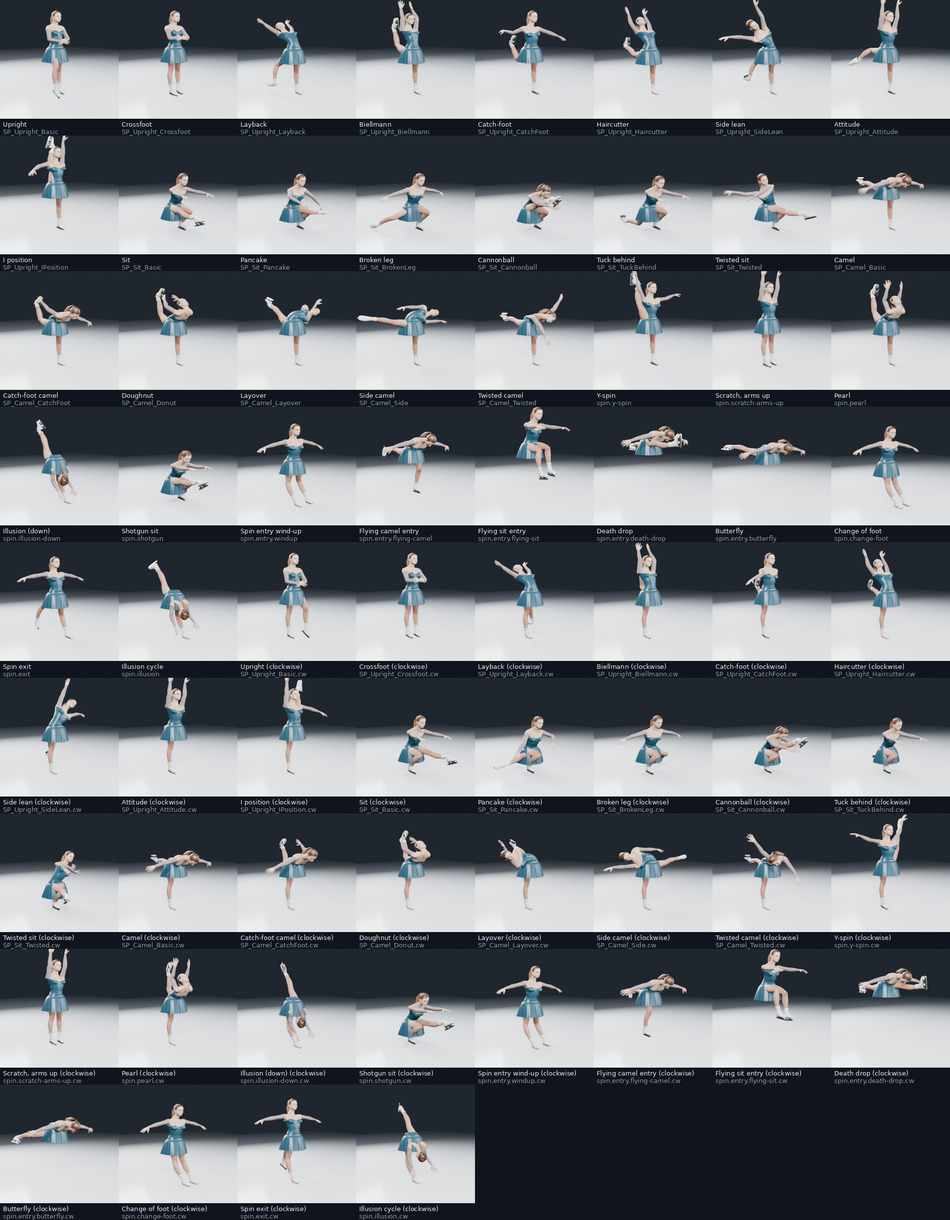
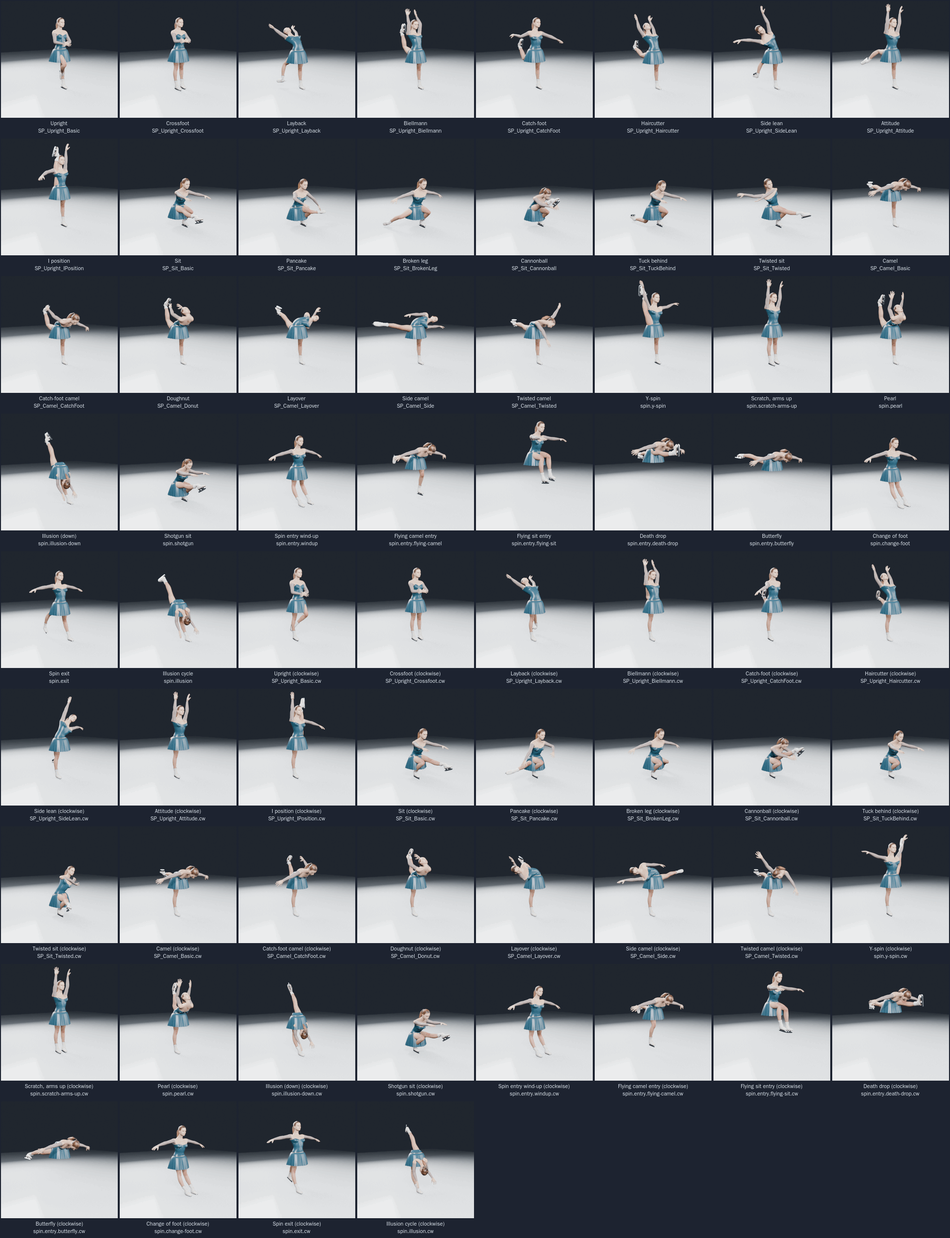
Motion library: the kiss-and-cry, bows, podium, warm-up and footwork; the upright spin fixed
The owner, 2026-11-14: "start building more character animation models,
build resources" (clips first, then bodies).

Three new categories, 68 clips (418 in all), full-body and drawn by eye:
- ceremony (29): the kiss-and-cry on the bench (waiting, listening to the
  coach, waves, a kiss, joy, relief, disappointment, a heart, wiping the
  eyes, pointing), the reverence and a deep bow, waving to the stands,
  the podium (stepping up, waving, the medal, flowers), skating on.
- idle (20): breathing, hands on hips, looking round, shaking out the legs,
  arm circles, quad/side/calf stretches, a forward fold, an ankle roll,
  leaning on the boards, marking a jump, fixing the hair, a fist.
- step (19): toe steps, chassé, cross and swing rolls, kick, stamp and knee
  accents, a hop, toe taps, a slide, arms framing the head.
One-sided clips have mirrors. Nothing plays them yet: they are resources
for the kiss-and-cry, podium and warm-up scenes and step sequences.

SP_Upright_Basic: the free blade now rests at the skating knee; as first
written it hung a hand's width off the ice and the upright spin read as
two-footed in the clients.

Contact sheets rendered on the athlete in Blender (render_motion.py) for
the new categories and the spin sheet: docs/presentation/motion.
Ice Lab 1035/1035, bridge 59/59, typecheck clean.

diff --git a/tools/ice-lab/game/motion/ceremony.ts b/tools/ice-lab/game/motion/ceremony.ts
@@ -1,0 +1,217 @@
+// game/motion/ceremony.ts — everything around the program: the kiss-and-cry, the bows, the podium,
+// and the warm-up and idle a skater does at the boards.
+//
+// The owner, 2026-11-14: "start building more character animation models, build resources". The
+// library had falls, spins, moves in the field and dance arms, and nothing for the minutes either
+// side of a program. These are full-body clips (pelvis, trunk, legs and arms), off the clock of
+// any element: no sim state drives them, so a client can play them wherever the skater is not
+// skating (the kiss-and-cry bench, the podium, the warm-up at the boards).
+//
+// Seated clips put the pelvis at a bench's height and the boots on the floor. Written right-handed
+// where a side matters (the right hand waves); each one-sided clip has its mirror. AUTHORED
+// shapes and timings, judged by eye on the contact sheets (docs/presentation/motion).
+
+import { clip, dir, mirrorClip, DOWN, UP } from "./types.ts";
+import type { Clip, Key, Pose, Segment, Vec3 } from "./types.ts";
+
+type Segs = Partial<Record<Segment, Vec3>>;
+const H = 0.89; // standing pelvis
+const SEAT = 0.47; // a bench
+const STAND: Segs = { thighL: DOWN, shinL: DOWN, footL: dir(-5, -20), thighR: DOWN, shinR: DOWN, footR: dir(5, -20) };
+const SEATED: Segs = { thighL: dir(-8, -8), shinL: dir(-5, -82), footL: dir(-5, -20), thighR: dir(8, -8), shinR: dir(5, -82), footR: dir(5, -20) };
+const armsDown: Segs = { upperArmL: dir(-100, -82), forearmL: dir(-30, -80), upperArmR: dir(100, -82), forearmR: dir(30, -80) };
+const handsOnKnees: Segs = { upperArmL: dir(-10, -60), forearmL: dir(-5, -40), upperArmR: dir(10, -60), forearmR: dir(5, -40) };
+const handsInLap: Segs = { upperArmL: dir(-15, -75), forearmL: dir(30, -20), upperArmR: dir(15, -75), forearmR: dir(-30, -20) };
+const handsOnHips: Segs = { upperArmL: dir(-120, -45), forearmL: dir(40, -25), upperArmR: dir(120, -45), forearmR: dir(-40, -25) };
+const handsToFace: Segs = { upperArmL: dir(-20, -30), forearmL: dir(10, 75), upperArmR: dir(20, -30), forearmR: dir(-10, 75) };
+
+const p = (pelvis: number, seg: Segs, extra: Partial<Pose> = {}): Pose => ({ pelvis, ...extra, seg: { trunk: UP, head: UP, ...seg } });
+const sat = (seg: Segs, extra: Partial<Pose> = {}): Pose => p(SEAT, { trunk: dir(180, 84), ...SEATED, ...seg }, extra);
+const stood = (seg: Segs, extra: Partial<Pose> = {}): Pose => p(H, { ...STAND, ...seg }, extra);
+const make = (category: "ceremony" | "idle") => (id: string, name: string, keys: Key[], tags: string[], note: string, o: { loop?: boolean; duration?: number } = {}): Clip =>
+  clip(id, name, category, keys, { ...o, tags, note });
+const ceremony = make("ceremony");
+const idle = make("idle");
+
+// ── the kiss-and-cry: on the bench, waiting for the marks ─────────────────────
+
+const kissAndCry: Clip[] = [
+  ceremony("kc.wait", "Waiting for the marks", [
+    { t: 0, pose: sat({ head: dir(0, 88), ...handsOnKnees }) },
+    { t: 1.6, pose: sat({ trunk: dir(180, 86), head: dir(0, 84), ...handsOnKnees }), ease: "inOut" },
+  ], ["kiss-and-cry", "seated", "breath"], "On the bench, hands on the knees, breathing out the program while the marks come.", { loop: true, duration: 3.2 }),
+  ceremony("kc.listen", "Listening to the coach", [
+    { t: 0, pose: sat({ trunk: dir(-60, 80), head: dir(-50, 80), ...handsInLap }) },
+    { t: 0.6, pose: sat({ trunk: dir(-60, 80), head: dir(-50, 70), ...handsInLap }), ease: "inOut" },
+    { t: 1.2, pose: sat({ trunk: dir(-60, 80), head: dir(-50, 80), ...handsInLap }), ease: "inOut" },
+  ], ["kiss-and-cry", "seated", "coach"], "Turned toward the coach on her left, nodding along.", { loop: true, duration: 2.4 }),
+  ceremony("kc.wave", "Wave to the camera", [
+    { t: 0, pose: sat({ ...handsInLap, upperArmR: dir(60, 40), forearmR: dir(30, 85) }) },
+    { t: 0.3, pose: sat({ ...handsInLap, upperArmR: dir(60, 40), forearmR: dir(75, 65) }), ease: "inOut" },
+    { t: 0.6, pose: sat({ ...handsInLap, upperArmR: dir(60, 40), forearmR: dir(30, 85) }), ease: "inOut" },
+  ], ["kiss-and-cry", "seated", "wave"], "The right hand up and waving at the camera in front of the bench.", { loop: true, duration: 1.2 }),
+  ceremony("kc.blow-kiss", "Blow a kiss", [
+    { t: 0, pose: sat({ ...handsInLap }) },
+    { t: 0.5, pose: sat({ ...handsInLap, upperArmR: dir(20, -20), forearmR: dir(-40, 70) }), ease: "out" },
+    { t: 0.9, pose: sat({ ...handsInLap, upperArmR: dir(20, -20), forearmR: dir(-40, 70) }) },
+    { t: 1.4, pose: sat({ head: dir(0, 85), ...handsInLap, upperArmR: dir(30, 20), forearmR: dir(20, 30) }), ease: "out" },
+  ], ["kiss-and-cry", "seated"], "Fingers to the lips, then the kiss sent out to the crowd.", { duration: 1.8 }),
+  ceremony("kc.joy", "The marks: joy", [
+    { t: 0, pose: sat({ ...handsOnKnees }) },
+    { t: 0.35, pose: sat({ trunk: dir(180, 80), head: dir(180, 80), upperArmL: dir(-30, 70), forearmL: dir(-10, 85), upperArmR: dir(30, 70), forearmR: dir(10, 85) }), ease: "out" },
+    { t: 1.2, pose: sat({ trunk: dir(0, 85), head: dir(0, 80), ...handsToFace }), ease: "inOut" },
+    { t: 2.0, pose: sat({ trunk: dir(0, 85), head: UP, upperArmL: dir(-30, 70), forearmL: dir(-10, 85), upperArmR: dir(30, 70), forearmR: dir(10, 85) }), ease: "inOut" },
+  ], ["kiss-and-cry", "seated", "reaction", "good"], "Both arms flung up, hands to the face, arms up again: a personal best.", { duration: 2.4 }),
+  ceremony("kc.relief", "The marks: relief", [
+    { t: 0, pose: sat({ ...handsOnKnees }) },
+    { t: 0.5, pose: sat({ trunk: dir(0, 80), head: dir(0, 65), ...handsToFace }), ease: "out" },
+    { t: 1.5, pose: sat({ trunk: dir(0, 80), head: dir(0, 65), ...handsToFace }) },
+    { t: 2.4, pose: sat({ trunk: dir(180, 75), head: dir(180, 85), ...handsInLap }), ease: "inOut" },
+  ], ["kiss-and-cry", "seated", "reaction", "good"], "Hands over the face, then a long breath out, leaning back.", { duration: 2.8 }),
+  ceremony("kc.disappointed", "The marks: disappointed", [
+    { t: 0, pose: sat({ ...handsOnKnees }) },
+    { t: 0.8, pose: sat({ trunk: dir(0, 70), head: dir(0, 40), upperArmL: dir(-10, -70), forearmL: dir(0, -50), upperArmR: dir(10, -70), forearmR: dir(0, -50) }), ease: "inOut" },
+    { t: 2.0, pose: sat({ trunk: dir(0, 72), head: dir(-20, 55), upperArmL: dir(-10, -70), forearmL: dir(0, -50), upperArmR: dir(10, -70), forearmR: dir(0, -50) }), ease: "inOut" },
+  ], ["kiss-and-cry", "seated", "reaction", "bad"], "Shoulders drop, head down, a glance away: not the marks she wanted.", { duration: 2.4 }),
+  ceremony("kc.heart", "Hands make a heart", [
+    { t: 0, pose: sat({ ...handsInLap }) },
+    { t: 0.5, pose: sat({ upperArmL: dir(-30, -35), forearmL: dir(30, 30), upperArmR: dir(30, -35), forearmR: dir(-30, 30) }), ease: "out" },
+  ], ["kiss-and-cry", "seated"], "Both hands shaping a heart at the chest, held to the camera.", { duration: 1.5 }),
+  ceremony("kc.wipe-eyes", "Wipe the eyes", [
+    { t: 0, pose: sat({ ...handsInLap }) },
+    { t: 0.5, pose: sat({ head: dir(0, 80), ...handsInLap, upperArmR: dir(10, -35), forearmR: dir(-25, 75) }), ease: "out" },
+    { t: 1.2, pose: sat({ head: dir(0, 80), ...handsInLap, upperArmR: dir(15, -30), forearmR: dir(-35, 78) }), ease: "inOut" },
+    { t: 1.8, pose: sat({ ...handsInLap }), ease: "inOut" },
+  ], ["kiss-and-cry", "seated", "tears"], "The back of the hand to the eyes: it meant a lot.", { duration: 2.0 }),
+  ceremony("kc.point", "Point at the camera", [
+    { t: 0, pose: sat({ ...handsInLap }) },
+    { t: 0.4, pose: sat({ head: dir(0, 88), ...handsInLap, upperArmR: dir(15, 10), forearmR: dir(5, 15) }), ease: "out" },
+  ], ["kiss-and-cry", "seated"], "A grin and a finger straight at the camera: that one was for home.", { duration: 1.4 }),
+];
+
+// ── bows, the podium, skating on ──────────────────────────────────────────────
+
+const freeBehind: Segs = { thighR: dir(160, -80), shinR: dir(170, -75), footR: dir(180, -10) };
+const ceremonies: Clip[] = [
+  ceremony("bow.reverence", "Reverence", [
+    { t: 0, pose: stood({ ...armsDown }) },
+    { t: 0.9, pose: p(0.82, { trunk: dir(0, 80), head: dir(0, 70), thighL: dir(0, -75), shinL: dir(180, -78), footL: dir(-5, -20), ...freeBehind, upperArmL: dir(-110, -40), forearmL: dir(-130, -45), upperArmR: dir(80, 10), forearmR: dir(90, 0) }), ease: "inOut" },
+    { t: 1.8, pose: p(0.8, { trunk: dir(0, 72), head: dir(0, 60), thighL: dir(0, -70), shinL: dir(180, -76), footL: dir(-5, -20), ...freeBehind, upperArmL: dir(-110, -50), forearmL: dir(-130, -55), upperArmR: dir(100, -40), forearmR: dir(120, -45) }), ease: "inOut" },
+    { t: 3.0, pose: stood({ head: dir(0, 88), upperArmL: dir(-110, -50), forearmL: dir(-120, -55), upperArmR: dir(110, -50), forearmR: dir(120, -55) }), ease: "inOut" },
+  ], ["bow", "curtsey", "ballet"], "The curtsey to the judges: the right foot behind, both knees soft, the trunk and the right arm sweeping down.", { duration: 3.0 }),
+  ceremony("bow.deep", "Deep bow", [
+    { t: 0, pose: stood({ ...armsDown }) },
+    { t: 1.0, pose: stood({ trunk: dir(0, 45), head: dir(0, 30), upperArmL: dir(-20, -80), forearmL: dir(0, -85), upperArmR: dir(20, -80), forearmR: dir(0, -85) }), ease: "inOut" },
+    { t: 1.6, pose: stood({ trunk: dir(0, 45), head: dir(0, 30), upperArmL: dir(-20, -80), forearmL: dir(0, -85), upperArmR: dir(20, -80), forearmR: dir(0, -85) }) },
+    { t: 2.6, pose: stood({ ...armsDown }), ease: "inOut" },
+  ], ["bow"], "From the waist, arms falling straight, held a beat: for a home crowd.", { duration: 2.6 }),
+  ceremony("bow.wave-crowd", "Wave to the stands", [
+    { t: 0, pose: stood({ upperArmL: dir(-100, -80), forearmL: dir(-80, -75), upperArmR: dir(80, 55), forearmR: dir(70, 80) }, { twist: -25 }) },
+    { t: 1.0, pose: stood({ upperArmL: dir(-100, -80), forearmL: dir(-80, -75), upperArmR: dir(110, 55), forearmR: dir(120, 80) }, { twist: 25 }), ease: "inOut" },
+    { t: 2.0, pose: stood({ upperArmL: dir(-100, -80), forearmL: dir(-80, -75), upperArmR: dir(80, 55), forearmR: dir(70, 80) }, { twist: -25 }), ease: "inOut" },
+  ], ["bow", "wave", "crowd"], "The right arm high, the shoulders turning from one end of the stands to the other.", { loop: true, duration: 2.0 }),
+  ceremony("podium.step-up", "Step up to the podium", [
+    { t: 0, pose: stood({ ...armsDown }) },
+    { t: 0.5, pose: p(0.86, { thighL: dir(0, -20), shinL: dir(0, -85), footL: dir(0, -15), thighR: DOWN, shinR: DOWN, footR: dir(5, -20), upperArmL: dir(-110, -60), forearmL: dir(-100, -55), upperArmR: dir(110, -60), forearmR: dir(100, -55) }), ease: "out" },
+    { t: 1.2, pose: stood({ ...armsDown }), ease: "inOut" },
+  ], ["podium"], "The left knee lifts onto the block, the weight goes up and over it, she stands tall.", { duration: 1.2 }),
+  ceremony("podium.wave", "Wave from the podium", [
+    { t: 0, pose: stood({ upperArmL: dir(-100, -80), forearmL: dir(-60, -78), upperArmR: dir(40, 75), forearmR: dir(20, 88) }) },
+    { t: 0.4, pose: stood({ upperArmL: dir(-100, -80), forearmL: dir(-60, -78), upperArmR: dir(40, 75), forearmR: dir(70, 75) }), ease: "inOut" },
+    { t: 0.8, pose: stood({ upperArmL: dir(-100, -80), forearmL: dir(-60, -78), upperArmR: dir(40, 75), forearmR: dir(20, 88) }), ease: "inOut" },
+  ], ["podium", "wave"], "Tall on the block, the right hand high and waving.", { loop: true, duration: 1.6 }),
+  ceremony("podium.medal", "Looking at the medal", [
+    { t: 0, pose: stood({ head: dir(0, 50), upperArmL: dir(-20, -60), forearmL: dir(30, 0), upperArmR: dir(20, -60), forearmR: dir(-30, 0) }) },
+    { t: 1.2, pose: stood({ head: dir(0, 50), upperArmL: dir(-20, -60), forearmL: dir(30, 0), upperArmR: dir(20, -60), forearmR: dir(-30, 0) }) },
+    { t: 2.0, pose: stood({ head: dir(0, 88), upperArmL: dir(-20, -60), forearmL: dir(30, 10), upperArmR: dir(20, -60), forearmR: dir(-30, 10) }), ease: "inOut" },
+  ], ["podium", "medal"], "The medal held in both hands at the chest, looked at, then lifted for the cameras.", { duration: 2.4 }),
+  ceremony("podium.flowers", "Flowers and a wave", [
+    { t: 0, pose: stood({ upperArmL: dir(-30, -55), forearmL: dir(40, 10), upperArmR: dir(60, 50), forearmR: dir(30, 85) }) },
+    { t: 0.4, pose: stood({ upperArmL: dir(-30, -55), forearmL: dir(40, 10), upperArmR: dir(60, 50), forearmR: dir(75, 70) }), ease: "inOut" },
+    { t: 0.8, pose: stood({ upperArmL: dir(-30, -55), forearmL: dir(40, 10), upperArmR: dir(60, 50), forearmR: dir(30, 85) }), ease: "inOut" },
+  ], ["podium", "wave", "flowers"], "The bouquet cradled in the left arm, the right hand waving.", { loop: true, duration: 1.6 }),
+  ceremony("ceremony.skate-on", "Skating on, arm raised", [
+    { t: 0, pose: p(0.87, { trunk: dir(0, 86), thighL: DOWN, shinL: DOWN, footL: dir(0, -20), thighR: dir(180, -55), shinR: dir(180, -62), footR: dir(180, -35), upperArmL: dir(-100, -40), forearmL: dir(-100, -40), upperArmR: dir(30, 70), forearmR: dir(20, 85) }) },
+  ], ["ceremony", "glide", "wave"], "A victory lap's glide: the free leg extended behind, the right arm raised to the crowd.", { loop: true, duration: 1 }),
+];
+
+// ── warm-up and idle, at the boards or on the spot ────────────────────────────
+
+const visualizeIn: Segs = { upperArmL: dir(-20, -40), forearmL: dir(60, -10), upperArmR: dir(20, -40), forearmR: dir(-60, -10) };
+const idles: Clip[] = [
+  idle("idle.breathe", "Standing, breathing", [
+    { t: 0, pose: stood({ ...armsDown }) },
+    { t: 2.0, pose: stood({ trunk: dir(180, 88), head: dir(0, 89), upperArmL: dir(-100, -80), forearmL: dir(-35, -78), upperArmR: dir(100, -80), forearmR: dir(35, -78) }), ease: "inOut" },
+  ], ["idle", "breath"], "Still, tall, a slow breath in and out: the default between everything.", { loop: true, duration: 4.0 }),
+  idle("idle.hands-hips", "Hands on hips", [
+    { t: 0, pose: stood({ ...handsOnHips }) },
+    { t: 1.5, pose: stood({ head: dir(-25, 86), ...handsOnHips }), ease: "inOut" },
+    { t: 3.0, pose: stood({ head: dir(25, 86), ...handsOnHips }), ease: "inOut" },
+  ], ["idle", "breath"], "Hands on the hips, getting her breath back, looking round the rink.", { loop: true, duration: 4.5 }),
+  idle("idle.look-around", "Looking round the rink", [
+    { t: 0, pose: stood({ ...armsDown, head: dir(-60, 88) }) },
+    { t: 1.5, pose: stood({ ...armsDown, head: dir(0, 85) }), ease: "inOut" },
+    { t: 3.0, pose: stood({ ...armsDown, head: dir(60, 88) }), ease: "inOut" },
+    { t: 4.5, pose: stood({ ...armsDown, head: dir(0, 85) }), ease: "inOut" },
+  ], ["idle"], "The head turns slowly across the stands and back.", { loop: true, duration: 6.0 }),
+  idle("idle.shake-legs", "Shaking out the legs", [
+    { t: 0, pose: p(H, { ...armsDown, thighL: DOWN, shinL: DOWN, footL: dir(-5, -20), thighR: dir(5, -70), shinR: dir(10, -85), footR: dir(5, -50) }) },
+    { t: 0.3, pose: p(H, { ...armsDown, thighL: DOWN, shinL: DOWN, footL: dir(-5, -20), thighR: dir(10, -75), shinR: dir(-10, -80), footR: dir(-5, -40) }), ease: "inOut" },
+    { t: 0.6, pose: p(H, { ...armsDown, thighL: dir(-5, -70), shinL: dir(-10, -85), footL: dir(-5, -50), thighR: DOWN, shinR: DOWN, footR: dir(5, -20) }), ease: "inOut" },
+    { t: 0.9, pose: p(H, { ...armsDown, thighL: dir(-10, -75), shinL: dir(10, -80), footL: dir(5, -40), thighR: DOWN, shinR: DOWN, footR: dir(5, -20) }), ease: "inOut" },
+  ], ["idle", "warm-up"], "One foot then the other lifted and shaken loose.", { loop: true, duration: 1.2 }),
+  idle("idle.arm-circles", "Arm circles", [
+    { t: 0, pose: stood({ upperArmL: dir(-90, -60), forearmL: dir(-90, -60), upperArmR: dir(90, -60), forearmR: dir(90, -60) }) },
+    { t: 0.4, pose: stood({ upperArmL: dir(-30, 20), forearmL: dir(-30, 20), upperArmR: dir(30, 20), forearmR: dir(30, 20) }) },
+    { t: 0.8, pose: stood({ upperArmL: dir(-80, 85), forearmL: dir(-80, 85), upperArmR: dir(80, 85), forearmR: dir(80, 85) }) },
+    { t: 1.2, pose: stood({ upperArmL: dir(-150, 10), forearmL: dir(-150, 10), upperArmR: dir(150, 10), forearmR: dir(150, 10) }) },
+  ], ["idle", "warm-up"], "Both arms swung in big circles, forward and over.", { loop: true, duration: 1.6 }),
+  idle("idle.quad-stretch", "Quad stretch", [
+    { t: 0, pose: stood({ trunk: dir(0, 85), thighR: dir(180, -85), shinR: dir(180, 60), footR: dir(0, 40), upperArmR: dir(160, -55), forearmR: dir(175, -20), upperArmL: dir(-90, 0), forearmL: dir(-90, 0) }) },
+  ], ["idle", "warm-up", "stretch"], "The right heel pulled up behind by the right hand, the left arm out for balance.", { loop: true, duration: 1 }),
+  idle("idle.hamstring-fold", "Forward fold", [
+    { t: 0, pose: stood({ ...armsDown }) },
+    { t: 1.2, pose: stood({ trunk: dir(0, -45), head: dir(0, -60), upperArmL: dir(-10, -80), forearmL: dir(0, -85), upperArmR: dir(10, -80), forearmR: dir(0, -85) }), ease: "inOut" },
+    { t: 3.0, pose: stood({ trunk: dir(0, -45), head: dir(0, -60), upperArmL: dir(-10, -80), forearmL: dir(0, -85), upperArmR: dir(10, -80), forearmR: dir(0, -85) }) },
+    { t: 4.0, pose: stood({ ...armsDown }), ease: "inOut" },
+  ], ["idle", "warm-up", "stretch"], "Folded down over straight legs, hands toward the boots, and slowly back up.", { duration: 4.0 }),
+  idle("idle.side-stretch", "Side stretch", [
+    { t: 0, pose: stood({ trunk: dir(-90, 72), head: dir(-90, 70), upperArmR: dir(-60, 80), forearmR: dir(-90, 50), upperArmL: dir(-110, -60), forearmL: dir(30, -20) }) },
+  ], ["idle", "warm-up", "stretch"], "The right arm over the head, bending to the left.", { loop: true, duration: 1 }),
+  idle("idle.calf-stretch", "Calf stretch", [
+    { t: 0, pose: p(0.8, { trunk: dir(0, 75), head: dir(0, 80), thighL: dir(0, -55), shinL: dir(0, -88), footL: dir(0, -20), thighR: dir(180, -60), shinR: dir(180, -62), footR: dir(0, -10), ...handsOnHips }) },
+  ], ["idle", "warm-up", "stretch"], "A long step forward on the left, the right leg straight behind with its blade flat.", { loop: true, duration: 1 }),
+  idle("idle.ankle-roll", "Ankle roll", [
+    { t: 0, pose: stood({ ...handsOnHips, thighR: dir(0, -80), shinR: dir(180, -80), footR: dir(0, -80) }) },
+    { t: 0.4, pose: stood({ ...handsOnHips, thighR: dir(0, -80), shinR: dir(180, -80), footR: dir(90, -70) }), ease: "inOut" },
+    { t: 0.8, pose: stood({ ...handsOnHips, thighR: dir(0, -80), shinR: dir(180, -80), footR: dir(180, -80) }), ease: "inOut" },
+    { t: 1.2, pose: stood({ ...handsOnHips, thighR: dir(0, -80), shinR: dir(180, -80), footR: dir(-90, -70) }), ease: "inOut" },
+  ], ["idle", "warm-up"], "The right toe pick on the ice, the ankle circled round it.", { loop: true, duration: 1.6 }),
+  idle("idle.boards-lean", "Leaning on the boards", [
+    { t: 0, pose: stood({ trunk: dir(0, 55), head: dir(0, 70), upperArmL: dir(-20, 0), forearmL: dir(-10, -40), upperArmR: dir(20, 0), forearmR: dir(10, -40), thighR: dir(180, -85), shinR: dir(180, -80) }) },
+    { t: 2.0, pose: stood({ trunk: dir(0, 57), head: dir(0, 80), upperArmL: dir(-20, 0), forearmL: dir(-10, -40), upperArmR: dir(20, 0), forearmR: dir(10, -40), thighR: dir(180, -85), shinR: dir(180, -80) }), ease: "inOut" },
+  ], ["idle", "boards"], "Both hands on the boards' rail, leaning in, listening to the coach across them.", { loop: true, duration: 4.0 }),
+  idle("idle.visualize", "Marking a jump", [
+    { t: 0, pose: stood({ upperArmL: dir(-130, -10), forearmL: dir(-150, -10), upperArmR: dir(50, -10), forearmR: dir(30, -10) }, { twist: -35 }) },
+    { t: 0.8, pose: stood({ ...visualizeIn }, { twist: 30 }), ease: "out" },
+    { t: 1.6, pose: stood({ ...visualizeIn, head: dir(0, 80) }, { twist: 30 }) },
+    { t: 2.4, pose: stood({ upperArmL: dir(-130, -10), forearmL: dir(-150, -10), upperArmR: dir(50, -10), forearmR: dir(30, -10) }, { twist: -35 }), ease: "inOut" },
+  ], ["idle", "warm-up", "jump"], "Eyes down, walking a jump through with the arms: the wind-up, the pull-in, the check.", { loop: true, duration: 3.2 }),
+  idle("idle.ponytail", "Fixing the hair", [
+    { t: 0, pose: stood({ head: dir(0, 80), upperArmL: dir(-100, 50), forearmL: dir(160, 30), upperArmR: dir(100, 50), forearmR: dir(-160, 30) }) },
+    { t: 1.0, pose: stood({ head: dir(0, 82), upperArmL: dir(-110, 45), forearmL: dir(170, 35), upperArmR: dir(110, 45), forearmR: dir(-170, 35) }), ease: "inOut" },
+  ], ["idle"], "Both hands behind the head, tightening the ponytail.", { loop: true, duration: 2.0 }),
+  idle("idle.fist", "Let's go", [
+    { t: 0, pose: stood({ ...armsDown }) },
+    { t: 0.3, pose: stood({ head: dir(0, 80), upperArmL: dir(-100, -80), forearmL: dir(-60, -75), upperArmR: dir(30, -60), forearmR: dir(-20, 40) }), ease: "out" },
+    { t: 0.5, pose: stood({ head: dir(0, 80), upperArmL: dir(-100, -80), forearmL: dir(-60, -75), upperArmR: dir(30, -70), forearmR: dir(-20, 20) }) },
+    { t: 1.0, pose: stood({ ...armsDown }), ease: "inOut" },
+  ], ["idle", "warm-up"], "A short fist at the chest before she skates to the centre.", { duration: 1.0 }),
+];
+
+/** One-sided: a hand or a foot leads. Each gets its mirror. */
+const ONE_SIDED = new Set(["kc.wave", "kc.blow-kiss", "kc.wipe-eyes", "kc.point", "kc.listen", "bow.reverence", "bow.wave-crowd", "podium.step-up", "podium.wave", "podium.flowers", "ceremony.skate-on", "idle.quad-stretch", "idle.side-stretch", "idle.calf-stretch", "idle.ankle-roll", "idle.fist", "idle.visualize"]);
+const mirrored = (cs: Clip[]) => [...cs, ...cs.filter(c => ONE_SIDED.has(c.id)).map(c => mirrorClip(c, `${c.id}.mirror`, `${c.name} (other side)`))];
+
+export const CEREMONY: readonly Clip[] = mirrored([...kissAndCry, ...ceremonies]);
+export const IDLES: readonly Clip[] = mirrored(idles);

diff --git a/tools/ice-lab/game/motion/footwork.ts b/tools/ice-lab/game/motion/footwork.ts
@@ -1,0 +1,88 @@
+// game/motion/footwork.ts — the step sequence's own vocabulary: toe steps, chassés, rolls,
+// accents. The library's turns (move.three-turn, .mohawk, .choctaw, .bracket, .rocker, .counter,
+// .loop, .twizzle) already live in transitions.ts; these are the steps between them that a step
+// sequence and a choreographic sequence are made of.
+//
+// The sim scores a step sequence from its own turns and edges (sim/stepLevel.ts); nothing here
+// counts toward a level. A client plays these as presentation over a step sequence's skating, as
+// it plays the turns. Written leading with the left foot where a side matters, each with its
+// mirror. AUTHORED shapes and timings, judged by eye (2026-11-14).
+
+import { clip, dir, mirrorClip, UP } from "./types.ts";
+import type { Clip, Key, Pose, Segment, Vec3 } from "./types.ts";
+
+type Segs = Partial<Record<Segment, Vec3>>;
+const L_KNEE = (b: number): Segs => ({ thighL: dir(0, -90 + b), shinL: dir(180, -90 + b * 0.8), footL: dir(0, -20) });
+const R_KNEE = (b: number): Segs => ({ thighR: dir(0, -90 + b), shinR: dir(180, -90 + b * 0.8), footR: dir(0, -20) });
+const armsOpen: Segs = { upperArmL: dir(-90, -15), forearmL: dir(-90, -20), upperArmR: dir(90, -15), forearmR: dir(90, -20) };
+const armsLow: Segs = { upperArmL: dir(-110, -50), forearmL: dir(-100, -45), upperArmR: dir(110, -50), forearmR: dir(100, -45) };
+const p = (pelvis: number, seg: Segs, extra: Partial<Pose> = {}): Pose => ({ pelvis, ...extra, seg: { trunk: UP, head: UP, ...seg } });
+const step = (id: string, name: string, keys: Key[], tags: string[], note: string, o: { loop?: boolean; duration?: number } = {}): Clip =>
+  clip(id, name, "step", keys, { ...o, tags: ["step", ...tags], note });
+
+/** A knee driven up in front, the shin hanging: a toe step's or a march's lifted leg. */
+const liftL: Segs = { thighL: dir(0, -25), shinL: dir(0, -85), footL: dir(0, -60) };
+const liftR: Segs = { thighR: dir(0, -25), shinR: dir(0, -85), footR: dir(0, -60) };
+/** On the toe pick: the foot pointed down under a soft knee. */
+const pickL: Segs = { thighL: dir(0, -80), shinL: dir(180, -82), footL: dir(0, -75) };
+const pickR: Segs = { thighR: dir(0, -80), shinR: dir(180, -82), footR: dir(0, -75) };
+
+const steps: Clip[] = [
+  step("step.toe-run", "Toe steps", [
+    { t: 0, pose: p(0.9, { trunk: dir(0, 82), ...pickL, ...liftR, upperArmL: dir(-30, -30), forearmL: dir(0, 10), upperArmR: dir(150, -40), forearmR: dir(170, -30) }) },
+    { t: 0.25, pose: p(0.9, { trunk: dir(0, 82), ...liftL, ...pickR, upperArmL: dir(-150, -40), forearmL: dir(-170, -30), upperArmR: dir(30, -30), forearmR: dir(0, 10) }), ease: "inOut" },
+  ], ["toe", "run", "accent"], "Running on the toe picks, knees driving, the arms pumping against the legs.", { loop: true, duration: 0.5 }),
+  step("step.chasse", "Chassé", [
+    { t: 0, pose: p(0.86, { ...L_KNEE(25), ...R_KNEE(15), ...armsOpen }) },
+    { t: 0.35, pose: p(0.87, { ...L_KNEE(25), thighR: dir(5, -78), shinR: dir(180, -75), footR: dir(0, -35), ...armsOpen }), ease: "out" },
+    { t: 0.7, pose: p(0.86, { ...L_KNEE(25), ...R_KNEE(15), ...armsOpen }), ease: "in" },
+  ], ["two-foot", "lift"], "The trailing foot lifts beside the skating foot and sets down again: a chassé.", { loop: true, duration: 1.0 }),
+  step("step.cross-roll", "Cross roll", [
+    { t: 0, pose: p(0.85, { ...L_KNEE(30), thighR: dir(-30, -70), shinR: dir(-45, -85), footR: dir(-40, -20), ...armsOpen }, { twist: -15 }) },
+    { t: 0.8, pose: p(0.85, { ...R_KNEE(30), thighL: dir(30, -70), shinL: dir(45, -85), footL: dir(40, -20), ...armsOpen }, { twist: 15 }), ease: "inOut" },
+  ], ["roll", "cross"], "Each stroke crossed over in front onto the new outside edge, the body rolling with it.", { loop: true, duration: 1.6 }),
+  step("step.swing-roll", "Swing roll", [
+    { t: 0, pose: p(0.86, { ...L_KNEE(20), thighR: dir(180, -60), shinR: dir(180, -65), footR: dir(180, -30), ...armsOpen }) },
+    { t: 1.0, pose: p(0.87, { ...L_KNEE(15), thighR: dir(0, -50), shinR: dir(0, -60), footR: dir(0, -30), upperArmL: dir(-60, -10), forearmL: dir(-40, -10), upperArmR: dir(150, -10), forearmR: dir(160, -10) }), ease: "inOut" },
+    { t: 2.0, pose: p(0.86, { ...L_KNEE(20), thighR: dir(180, -60), shinR: dir(180, -65), footR: dir(180, -30), ...armsOpen }), ease: "inOut" },
+  ], ["roll", "free leg"], "One long outside edge, the free leg swinging slowly from behind to in front, the arms opposing it.", { loop: true, duration: 2.0 }),
+  step("step.kick", "Kick accent", [
+    { t: 0, pose: p(0.86, { ...L_KNEE(20), ...R_KNEE(15), ...armsLow }) },
+    { t: 0.25, pose: p(0.88, { trunk: dir(180, 85), ...L_KNEE(10), thighR: dir(0, 10), shinR: dir(0, 15), footR: dir(0, 20), upperArmL: dir(-60, 30), forearmL: dir(-40, 40), upperArmR: dir(100, 20), forearmR: dir(110, 30) }), ease: "out" },
+    { t: 0.7, pose: p(0.86, { ...L_KNEE(20), ...R_KNEE(15), ...armsLow }), ease: "inOut" },
+  ], ["accent", "kick"], "A straight kick of the free leg in front on a hit in the music, the arms flung open.", { duration: 0.8 }),
+  step("step.stamp", "Stamp accent", [
+    { t: 0, pose: p(0.86, { ...L_KNEE(20), ...R_KNEE(15), ...armsLow }) },
+    { t: 0.2, pose: p(0.87, { ...L_KNEE(15), ...liftR, upperArmL: dir(-100, 20), forearmL: dir(-100, 40), upperArmR: dir(100, 20), forearmR: dir(100, 40) }), ease: "out" },
+    { t: 0.35, pose: p(0.84, { ...L_KNEE(30), ...R_KNEE(30), upperArmL: dir(-100, -40), forearmL: dir(-100, -50), upperArmR: dir(100, -40), forearmR: dir(100, -50) }), ease: "in" },
+    { t: 0.8, pose: p(0.86, { ...L_KNEE(20), ...R_KNEE(15), ...armsLow }), ease: "inOut" },
+  ], ["accent", "flamenco"], "The knee pulled up and the blade set down hard on the beat, the arms dropping with it.", { duration: 0.8 }),
+  step("step.knee-drive", "Knee drive", [
+    { t: 0, pose: p(0.87, { ...L_KNEE(15), ...R_KNEE(10), ...armsOpen }) },
+    { t: 0.3, pose: p(0.89, { ...L_KNEE(5), thighR: dir(0, 0), shinR: dir(0, -80), footR: dir(0, -50), upperArmL: dir(-20, 30), forearmL: dir(-10, 70), upperArmR: dir(150, -40), forearmR: dir(170, -30) }), ease: "out" },
+    { t: 0.8, pose: p(0.87, { ...L_KNEE(15), ...R_KNEE(10), ...armsOpen }), ease: "inOut" },
+  ], ["accent", "free leg"], "The free knee driven up to the hip, the opposite arm punched up with it.", { duration: 0.8 }),
+  step("step.hop", "Hop", [
+    { t: 0, pose: p(0.82, { ...L_KNEE(40), ...R_KNEE(40), ...armsLow }) },
+    { t: 0.2, pose: p(1.0, { ...L_KNEE(10), ...R_KNEE(30), upperArmL: dir(-80, 30), forearmL: dir(-70, 40), upperArmR: dir(80, 30), forearmR: dir(70, 40) }), ease: "out" },
+    { t: 0.45, pose: p(0.82, { ...L_KNEE(40), ...R_KNEE(40), ...armsLow }), ease: "in" },
+    { t: 0.7, pose: p(0.87, { ...L_KNEE(15), ...R_KNEE(15), ...armsOpen }), ease: "inOut" },
+  ], ["accent", "air", "small"], "A small hop off one foot onto the same: a lift in the music, no rotation.", { duration: 0.7 }),
+  step("step.toe-tap", "Toe tap", [
+    { t: 0, pose: p(0.86, { ...L_KNEE(20), thighR: dir(180, -80), shinR: dir(180, -70), footR: dir(180, -80), ...armsOpen }) },
+    { t: 0.25, pose: p(0.86, { ...L_KNEE(20), thighR: dir(180, -70), shinR: dir(180, -55), footR: dir(180, -60), ...armsOpen }), ease: "inOut" },
+  ], ["toe", "accent"], "The free toe pick tapping the ice behind, on the beat.", { loop: true, duration: 0.5 }),
+  step("step.slide", "Slide", [
+    { t: 0, pose: p(0.86, { ...L_KNEE(20), ...R_KNEE(15), ...armsOpen }) },
+    { t: 0.6, pose: p(0.55, { trunk: dir(-90, 70), head: dir(-80, 80), thighL: dir(0, -5), shinL: dir(180, -80), footL: dir(0, -20), thighR: dir(110, -35), shinR: dir(110, -10), footR: dir(110, 0), upperArmL: dir(-120, 30), forearmL: dir(-120, 40), upperArmR: dir(80, -20), forearmR: dir(70, -40) }), ease: "out" },
+    { t: 1.1, pose: p(0.55, { trunk: dir(-90, 70), head: dir(-80, 80), thighL: dir(0, -5), shinL: dir(180, -80), footL: dir(0, -20), thighR: dir(110, -35), shinR: dir(110, -10), footR: dir(110, 0), upperArmL: dir(-120, 30), forearmL: dir(-120, 40), upperArmR: dir(80, -20), forearmR: dir(70, -40) }) },
+    { t: 1.6, pose: p(0.86, { ...L_KNEE(20), ...R_KNEE(15), ...armsOpen }), ease: "inOut" },
+  ], ["low", "accent"], "Down onto the skating knee with the free leg sliding out to the side, the body leaning away: a dramatic slide.", { duration: 1.6 }),
+  step("step.arms-frame", "Arms frame", [
+    { t: 0, pose: p(0.87, { ...L_KNEE(15), ...R_KNEE(10), upperArmL: dir(-70, 40), forearmL: dir(-20, 60), upperArmR: dir(110, 0), forearmR: dir(130, -10) }, { twist: -20 }) },
+    { t: 0.5, pose: p(0.87, { ...L_KNEE(15), ...R_KNEE(10), upperArmL: dir(-110, 0), forearmL: dir(-130, -10), upperArmR: dir(70, 40), forearmR: dir(20, 60) }, { twist: 20 }), ease: "inOut" },
+  ], ["arms", "accent"], "The arms framing the head on one side then the other, the shoulders turning with them.", { loop: true, duration: 1.0 }),
+];
+
+const ONE_SIDED = new Set(["step.cross-roll", "step.swing-roll", "step.kick", "step.stamp", "step.knee-drive", "step.toe-tap", "step.slide", "step.chasse"]);
+export const FOOTWORK: readonly Clip[] = [...steps, ...steps.filter(c => ONE_SIDED.has(c.id)).map(c => mirrorClip(c, `${c.id}.mirror`, `${c.name} (other foot)`))];

diff --git a/tools/ice-lab/test/motion.test.ts b/tools/ice-lab/test/motion.test.ts
@@ -165,3 +165,37 @@ test("the shoulders twist against the hips: a three-turn winds, turns and checks
   const m = CLIP_BY_ID.get("move.three-turn.mirror")!;
   assert.deepEqual(m.keys.map(k => k.pose.twist), tw.map(t => -t), "the mirror twists the other way");
 });
+
+// ── Around the program, and the step sequence's vocabulary (2026-11-14) ──────
+import { CEREMONY, IDLES } from "../game/motion/ceremony.ts";
+import { FOOTWORK } from "../game/motion/footwork.ts";
+
+test("the library has the minutes around a program: the kiss-and-cry, bows, the podium, the warm-up, and footwork", () => {
+  assert.ok(clipsIn("ceremony").length >= 25, `${clipsIn("ceremony").length} ceremony clips`);
+  assert.ok(clipsIn("idle").length >= 15, `${clipsIn("idle").length} idles`);
+  assert.ok(clipsIn("step").length >= 15, `${clipsIn("step").length} footwork clips`);
+  for (const id of ["kc.wait", "kc.joy", "kc.disappointed", "bow.reverence", "podium.wave", "podium.medal", "idle.breathe", "idle.visualize", "step.toe-run", "step.chasse", "step.cross-roll"]) assert.ok(CLIP_BY_ID.has(id), id);
+  assert.deepEqual(Object.keys(libraryIndex().counts).filter(k => ["step", "ceremony", "idle"].includes(k)), ["step", "ceremony", "idle"]);
+});
+
+test("every one-sided clip around the program has its mirror, and the mirror is the other side", () => {
+  for (const set of [CEREMONY, IDLES, FOOTWORK]) for (const c of set.filter(x => x.id.endsWith(".mirror"))) {
+    const src = CLIP_BY_ID.get(c.id.slice(0, -".mirror".length))!;
+    assert.ok(src, c.id);
+    const a = sample(src, 0), b = sample(c, 0);
+    if (a.seg?.upperArmR && b.seg?.upperArmL) assert.ok(Math.abs(a.seg.upperArmR[0] + b.seg.upperArmL[0]) < 1e-9, `${c.id}: the right arm's line is the left's`);
+  }
+  assert.ok(CLIP_BY_ID.has("kc.wave.mirror") && CLIP_BY_ID.has("step.kick.mirror") && CLIP_BY_ID.has("idle.quad-stretch.mirror"));
+});
+
+test("the kiss-and-cry is seated and the podium stands; a bow ends upright", () => {
+  for (const c of clipsIn("ceremony").filter(x => x.tags.includes("seated"))) assert.ok(sample(c, 0).pelvis! < 0.55, `${c.id} sits`);
+  for (const id of ["podium.wave", "podium.medal", "podium.flowers"]) assert.ok(sample(CLIP_BY_ID.get(id)!, 0).pelvis! > 0.85, `${id} stands`);
+  for (const id of ["bow.reverence", "bow.deep"]) { const c = CLIP_BY_ID.get(id)!; assert.ok(sample(c, c.duration).pelvis! > 0.85, `${id} ends up`); }
+});
+
+test("the upright spin's free blade is drawn in to the skating knee, off the ice", () => {
+  const j = joints(sample(CLIP_BY_ID.get("SP_Upright_Basic")!, 0));
+  assert.ok(j.ankleR[1] > j.kneeL[1] - 0.15, `free ankle ${j.ankleR[1].toFixed(2)} m, skating knee ${j.kneeL[1].toFixed(2)} m`);
+  assert.ok(Math.hypot(j.ankleR[0] - j.kneeL[0], j.ankleR[2] - j.kneeL[2]) < 0.2, "beside the skating knee");
+});

diff --git a/tools/ice-lab/game/motion/spins.ts b/tools/ice-lab/game/motion/spins.ts
@@ -25,7 +25,10 @@ const H = 0.89; // standing pelvis
 
 export const SPIN_POSES: readonly Clip[] = [
   // Upright
-  hold("SP_Upright_Basic", "Upright", H, { trunk: UP, head: UP, ...STAND_L, thighR: dir(15, -55), shinR: dir(15, -90), footR: dir(0, -40), ...armsIn }, ["upright", "catalogued"], "Free leg crossed in front at the knee, arms drawn in."),
+  // 2026-11-14: the free knee raised forward and the shin folded back so the blade rests at the skating
+  // knee. As first written (thighR dir(15, -55), shin straight down) the free boot hung a hand's width
+  // off the ice and the spin read as two-footed in the clients (PR #97's stills).
+  hold("SP_Upright_Basic", "Upright", H, { trunk: UP, head: UP, ...STAND_L, thighR: dir(-5, -45), shinR: dir(-151, -41), footR: dir(-150, -70), ...armsIn }, ["upright", "catalogued"], "Free knee raised in front, its blade drawn in to the skating knee, arms drawn in."),
   hold("SP_Upright_Crossfoot", "Crossfoot", H, { trunk: UP, head: UP, ...STAND_L, thighR: dir(-10, -88), shinR: dir(-15, -88), footR: dir(-10, -30), upperArmL: dir(-20, -50), forearmL: dir(70, 0), upperArmR: dir(20, -50), forearmR: dir(-70, 0) }, ["upright", "catalogued"], "The scratch: both blades crossed, arms folded tight; the fastest spin there is."),
   hold("SP_Upright_Layback", "Layback", H - 0.03, { trunk: dir(180, 45), head: dir(180, 20), ...STAND_L, thighR: dir(160, -45), shinR: dir(100, -80), footR: dir(150, -10), upperArmL: dir(-150, 30), forearmL: dir(-170, 30), upperArmR: dir(150, 30), forearmR: dir(170, 30) }, ["upright", "catalogued", "back"], "The back arched over the free leg, arms trailing behind."),
   hold("SP_Upright_Biellmann", "Biellmann", H - 0.02, { trunk: dir(180, 75), head: dir(0, 85), ...STAND_L, thighR: dir(180, 20), shinR: dir(180, 75), footR: dir(0, 80), upperArmL: dir(-20, 85), forearmL: dir(160, 60), upperArmR: dir(20, 85), forearmR: dir(-160, 60) }, ["upright", "catalogued", "flexibility"], "The free blade pulled up from behind, over the head, both hands holding it."),

diff --git a/tools/ice-lab/game/motion/library.ts b/tools/ice-lab/game/motion/library.ts
@@ -3,16 +3,18 @@ import { FALLS, RECOVERIES } from "./falls.ts";
 import { EXPRESSIONS } from "./expressions.ts";
 import { SPINS } from "./spins.ts";
 import { TRANSITIONS, LEGS } from "./transitions.ts";
+import { FOOTWORK } from "./footwork.ts";
+import { CEREMONY, IDLES } from "./ceremony.ts";
 import { DANCE_STYLES } from "./dance.ts";
 import type { Category, Clip } from "./types.ts";
 
-export const CLIPS: readonly Clip[] = [...FALLS, ...RECOVERIES, ...EXPRESSIONS, ...SPINS, ...TRANSITIONS, ...LEGS];
+export const CLIPS: readonly Clip[] = [...FALLS, ...RECOVERIES, ...EXPRESSIONS, ...SPINS, ...TRANSITIONS, ...LEGS, ...FOOTWORK, ...CEREMONY, ...IDLES];
 export const CLIP_BY_ID: ReadonlyMap<string, Clip> = new Map(CLIPS.map(c => [c.id, c]));
 export function clipsIn(category: Category): Clip[] { return CLIPS.filter(c => c.category === category); }
 
 /** For a client's catalog: counts, and each clip's id, name, category, tags and length (not its keys). */
 export function libraryIndex() {
-  const counts = Object.fromEntries((["fall", "recovery", "expression", "spin", "transition", "leg"] as Category[]).map(c => [c, clipsIn(c).length]));
+  const counts = Object.fromEntries((["fall", "recovery", "expression", "spin", "transition", "leg", "step", "ceremony", "idle"] as Category[]).map(c => [c, clipsIn(c).length]));
   return {
     counts: { ...counts, total: CLIPS.length, styles: DANCE_STYLES.length },
     clips: CLIPS.map(c => ({ id: c.id, name: c.name, category: c.category, tags: c.tags, duration: c.duration, loop: c.loop })),

diff --git a/tools/ice-lab/game/motion/types.ts b/tools/ice-lab/game/motion/types.ts
@@ -47,7 +47,7 @@ export const TWIST_LIMIT = 60;
 export type Ease = "linear" | "in" | "out" | "inOut" | "hold";
 export interface Key { t: number; pose: Pose; ease?: Ease }
 
-export type Category = "fall" | "expression" | "spin" | "transition" | "leg" | "recovery";
+export type Category = "fall" | "expression" | "spin" | "transition" | "leg" | "recovery" | "step" | "ceremony" | "idle";
 
 export interface Clip {
   id: string;
